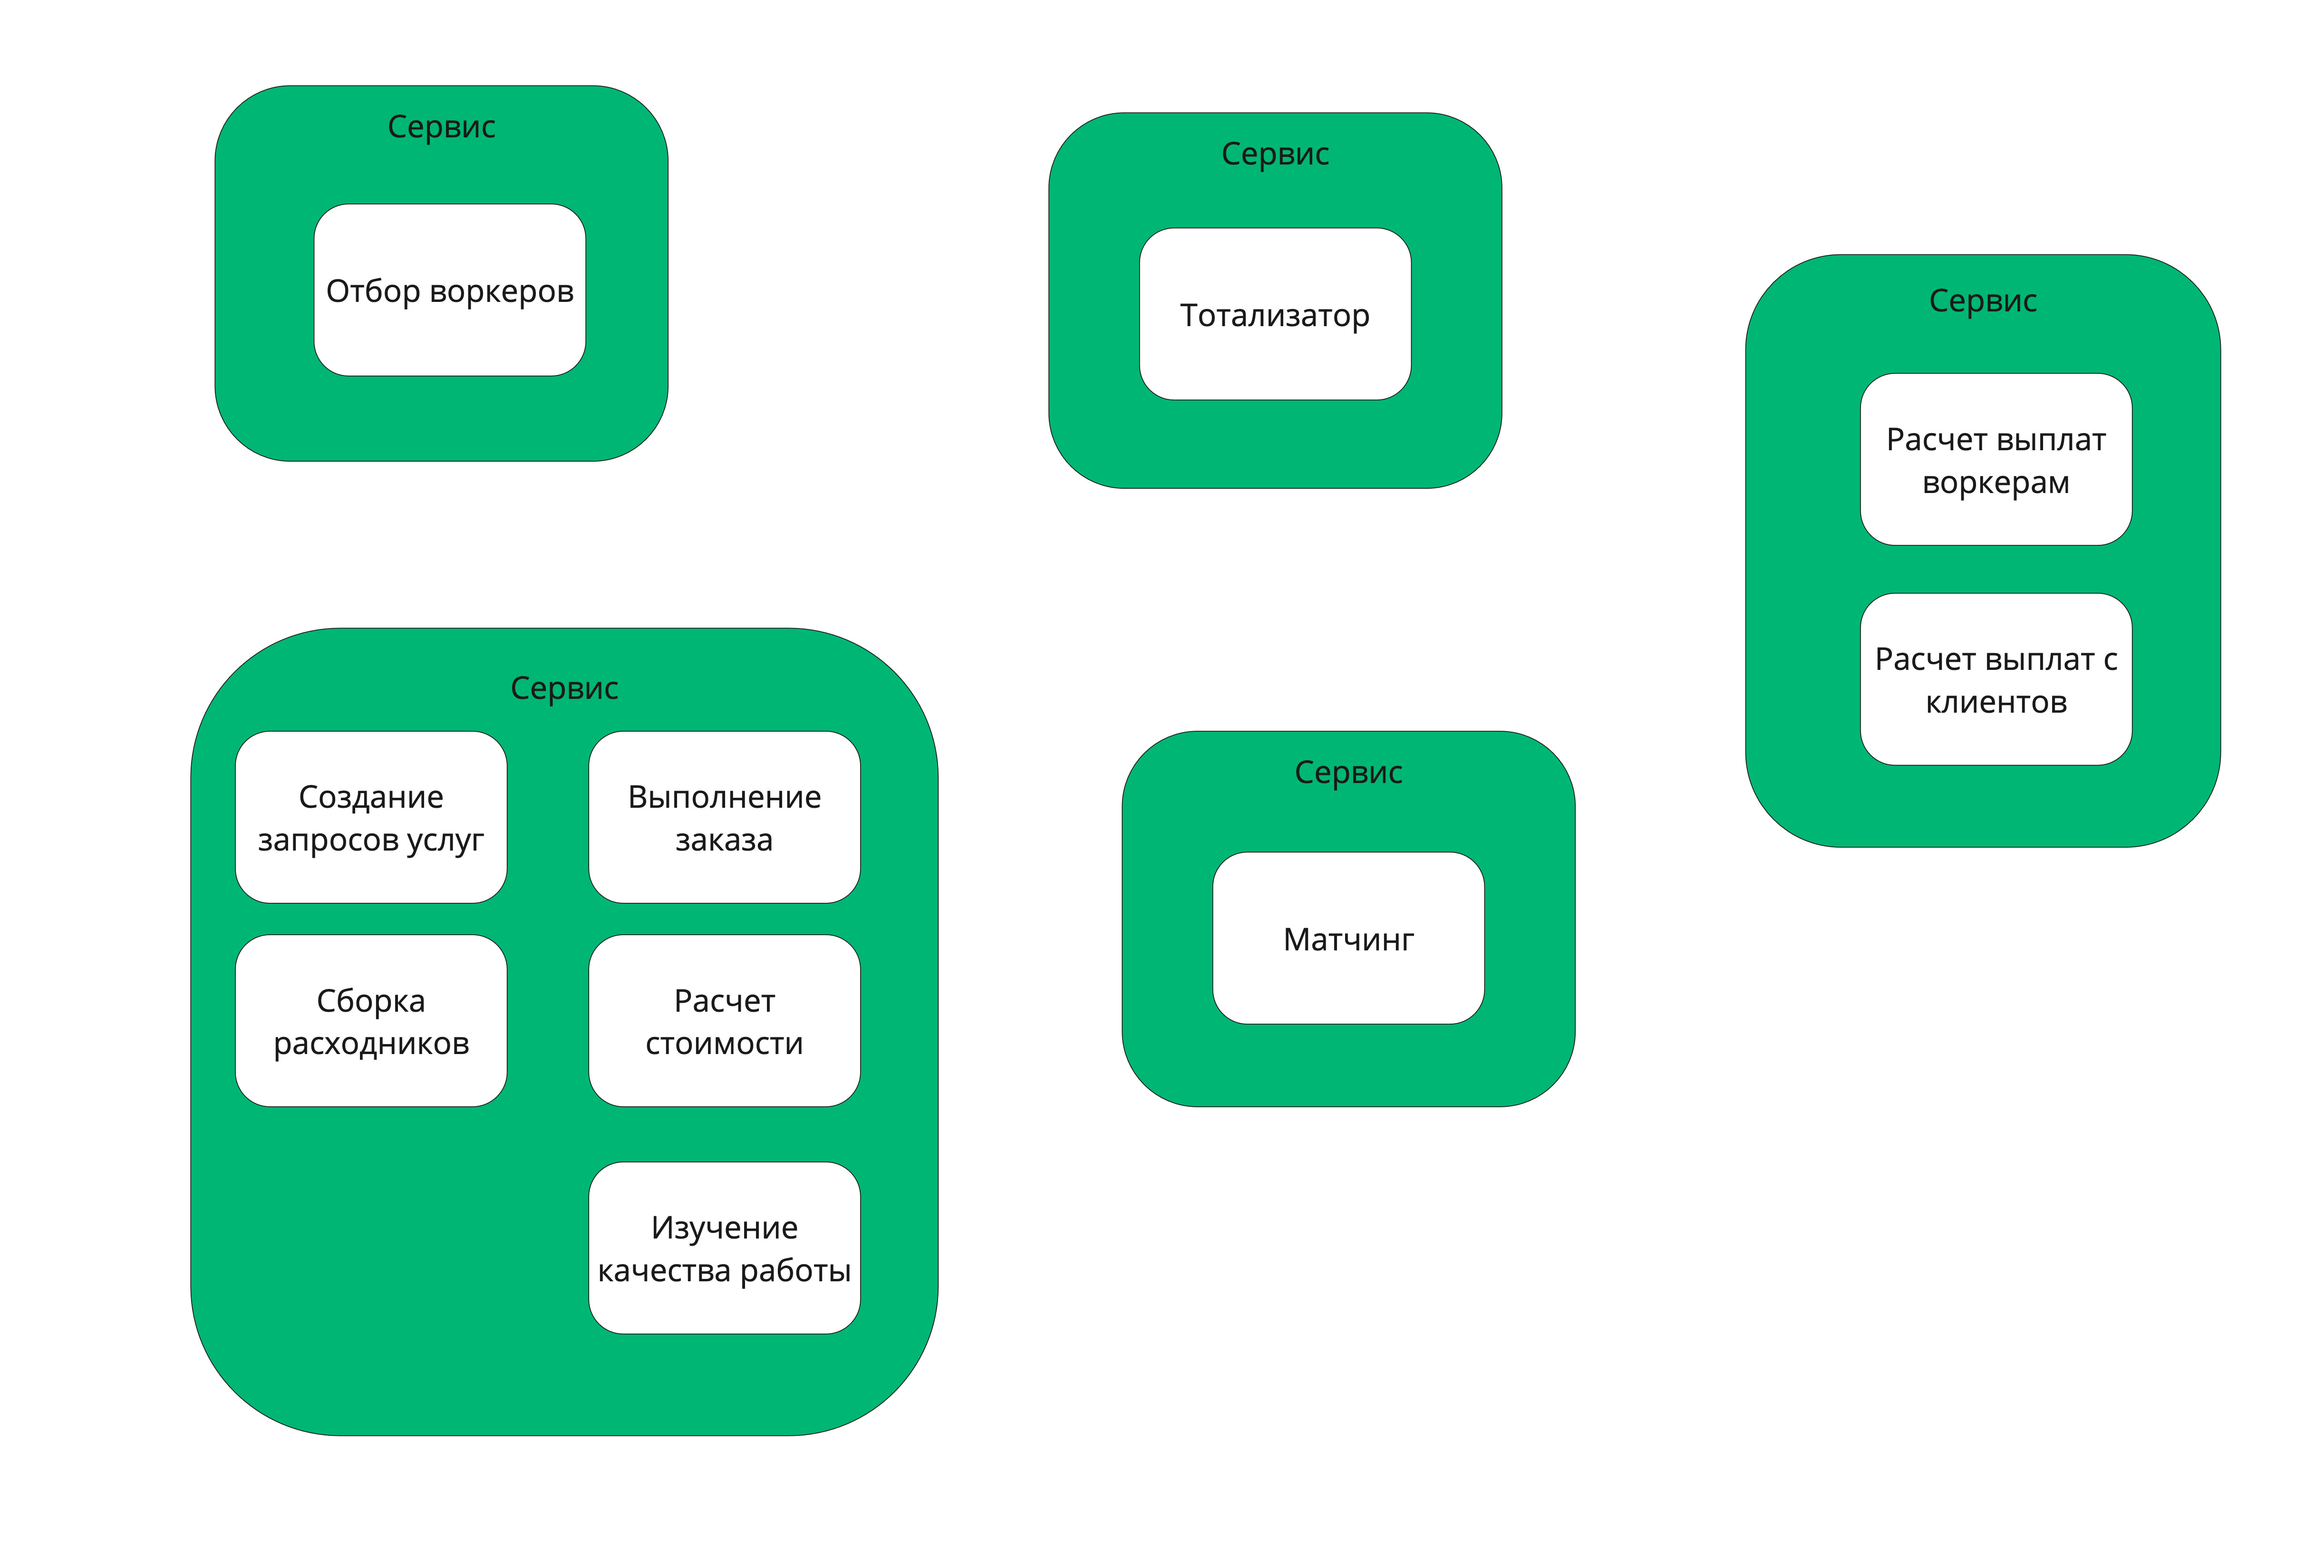
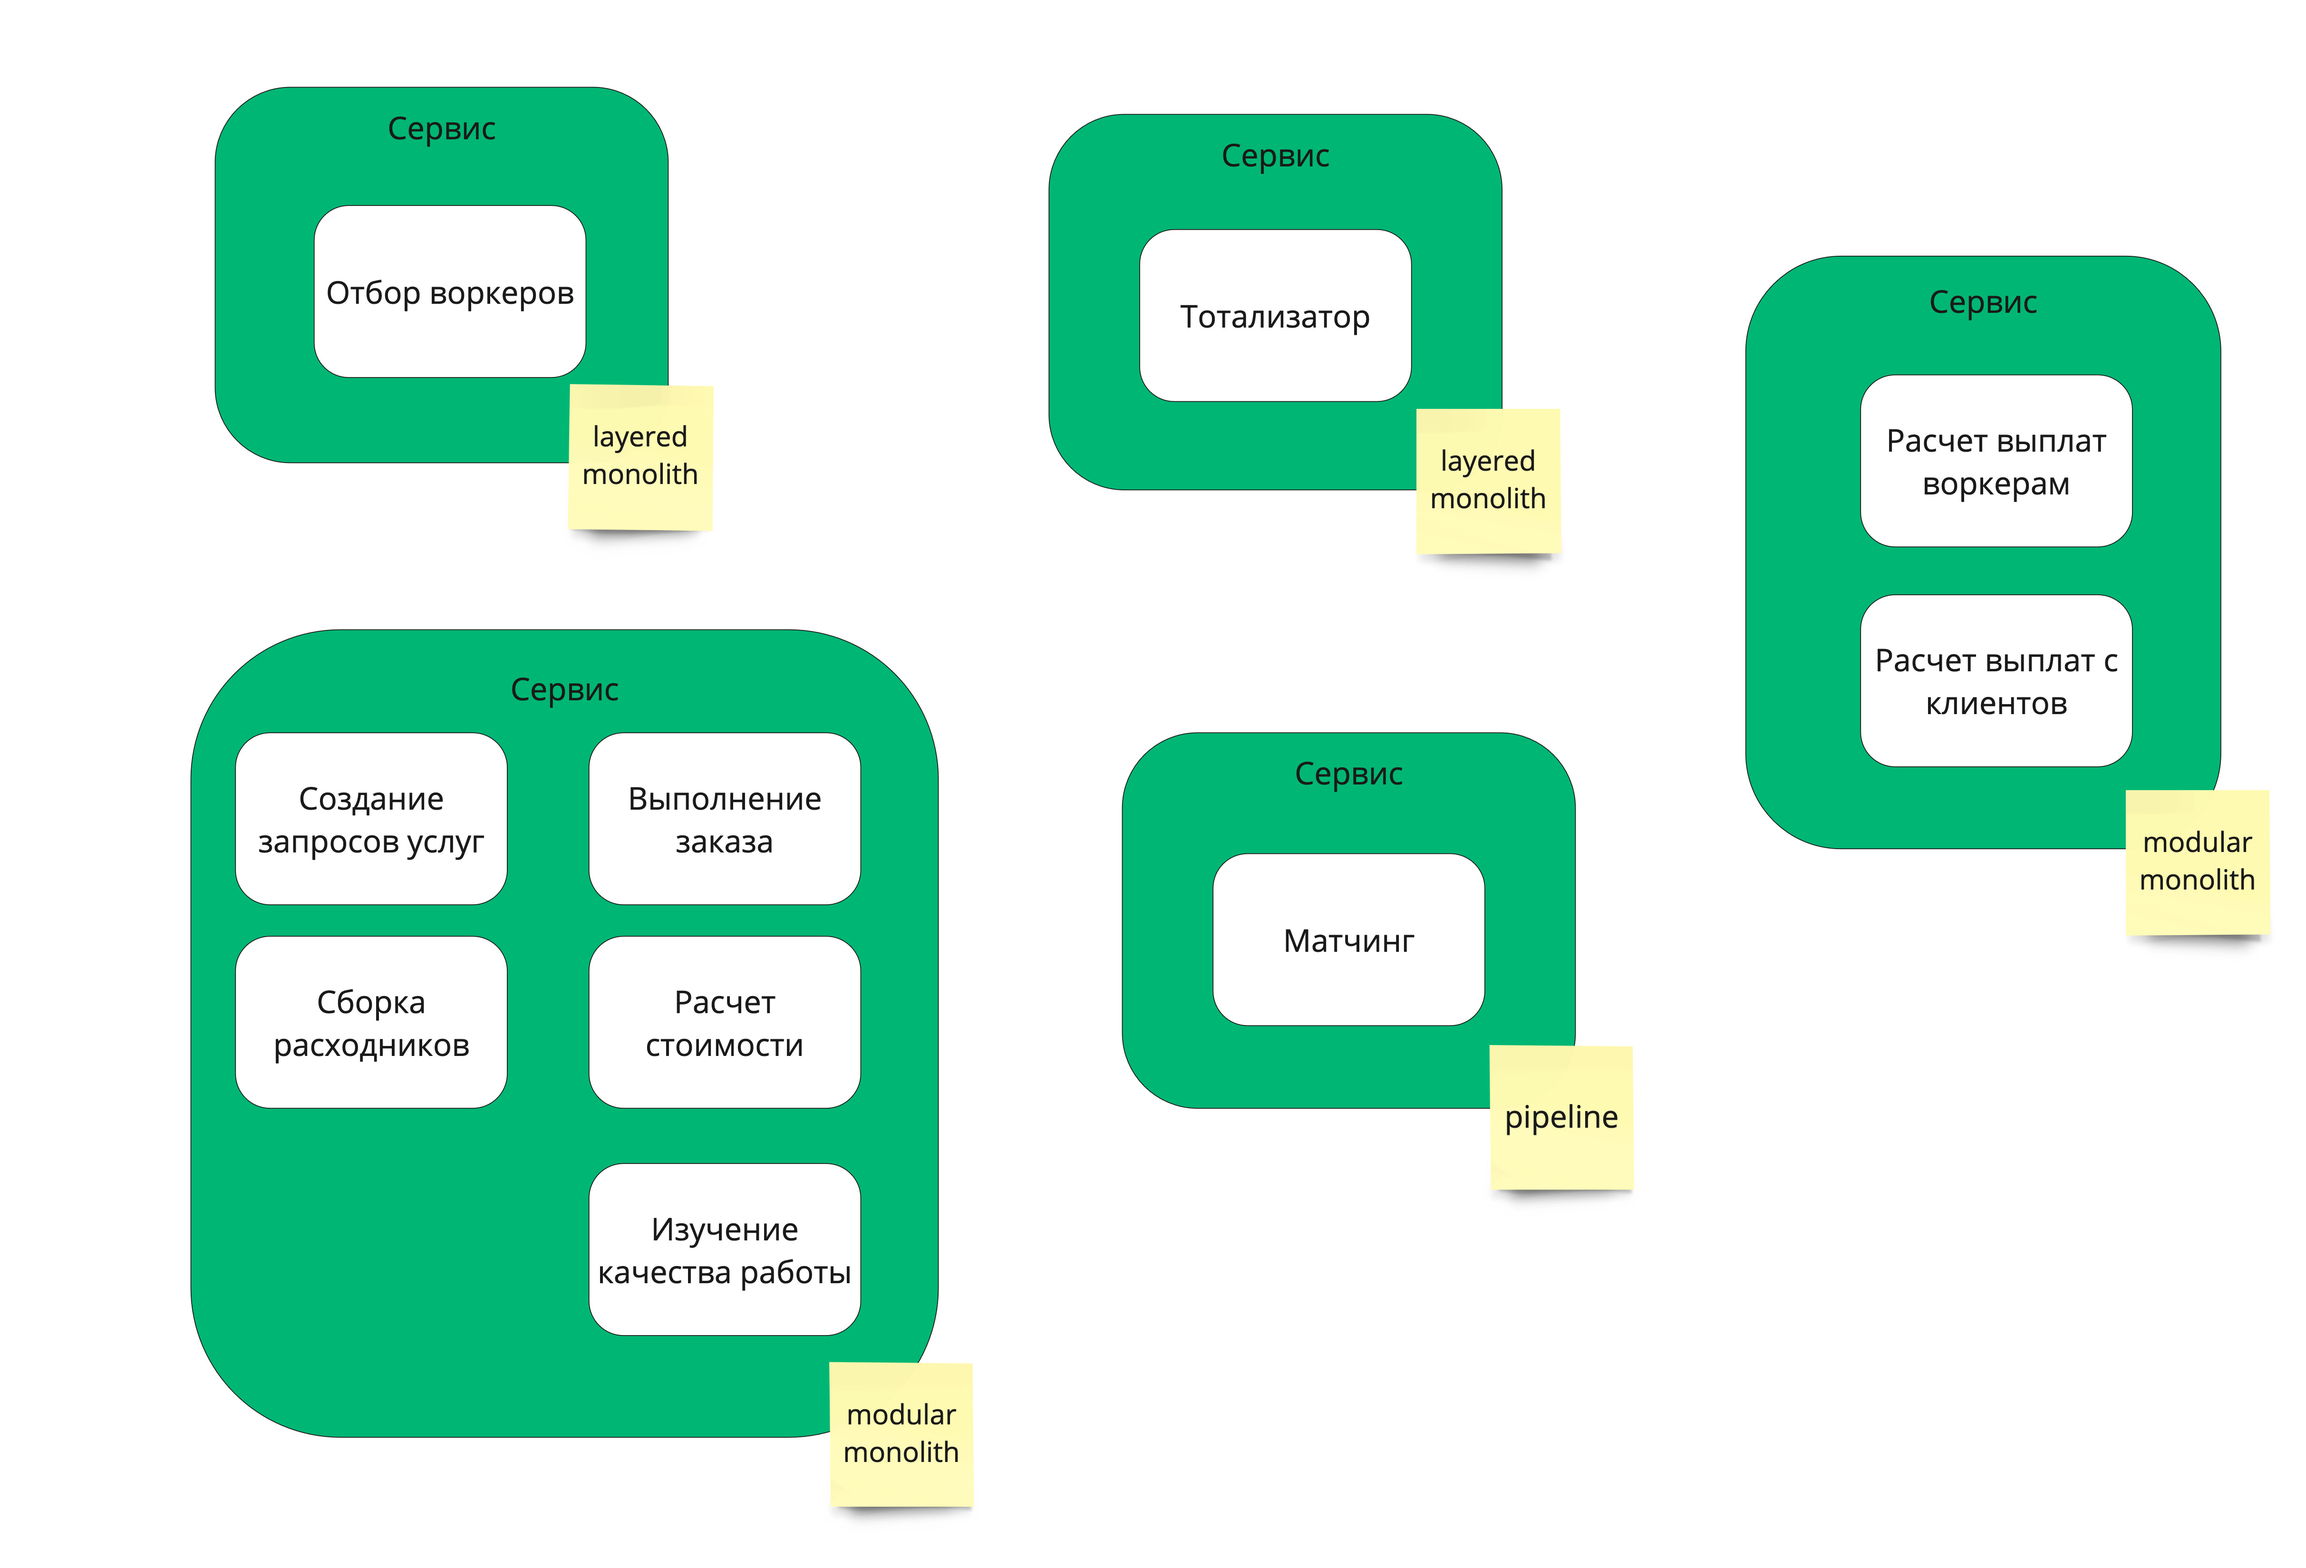
добавил архитектурный стиль к каждому сервису

diff --git a/3 - третья домашка/readme.md b/3 - третья домашка/readme.md
@@ -32,11 +32,20 @@
 ### Разбивка ограниченных контекстов по сервисам
 
 В отдельные сервисы вынесены следующие ограниченные контексты:
-- "Отбор воркеров" (к сервису есть отдельные требования по возможности DDOS-а - см. \[US-81\] + отдельные требования по TTM - 1 релиз в неделю) 
-- "Тотализатор" (к сервису есть отдельные требования по безопасности, вплоть до нераскрытия кода для других разработчиков и необходимости избежать маски-шоу. Обеспечить это в рамках одного монолита это очень сложно)
-- "Расчет выплат воркерам" и "Расчет выплат с клиентов" (из-за требований CatFinComplience, которые проще обеспечить в рамках отдельного сервиса, либо потребует наложить ограничения на всю систему)
-- "Матчинг" (из-за требований [US-300], где разработчики хотят выбирать язык реализации самостоятельно + специфичности алгоритма - map-reduce)
+- "Отбор воркеров"
+  - причина вынесения: к сервису есть отдельные требования по возможности DDOS-а - см. \[US-81\] + отдельные требования по TTM - 1 релиз в неделю
+  - для этого сервиса подойдет стиль layered monolith как стиль "по умолчанию"
+- "Тотализатор"
+  - причина вынесения: к сервису есть отдельные требования по безопасности, вплоть до нераскрытия кода для других разработчиков и необходимости избежать маски-шоу. Обеспечить это в рамках одного монолита это очень сложно
+  - для этого сервиса подойдет стиль layered monolith как стиль "по умолчанию"
+- "Расчет выплат воркерам" и "Расчет выплат с клиентов"
+  - причина вынесения: из-за требований CatFinComplience, которые проще обеспечить в рамках отдельного сервиса, либо потребует наложить ограничения на всю систему
+  - для этого сервиса подойдет стиль modular monolith из-за необходимости поддержания разделения доменной логики
+- "Матчинг"
+  - причина вынесения: из-за требований [US-300], где разработчики хотят выбирать язык реализации самостоятельно + специфичности алгоритма - map-reduce)
+  - для этого сервиса подойдет стиль pipeline из-за того, что логика алгоритма будет напоминать последовательность шагов (а-ля map-reduce)
 - все остальные - "Создание запросов услуг", "Выполнение заказа", "Сборка расходников", "Расчет стоимости", " Изучение качества работы"
+  - для этого сервиса подойдет стиль modular monolith из-за необходимости поддержания разделения доменной логики
 
 ![Разбивка ограниченных контекстов по сервисам](Bounded_contexts_by_services.jpg)
 
